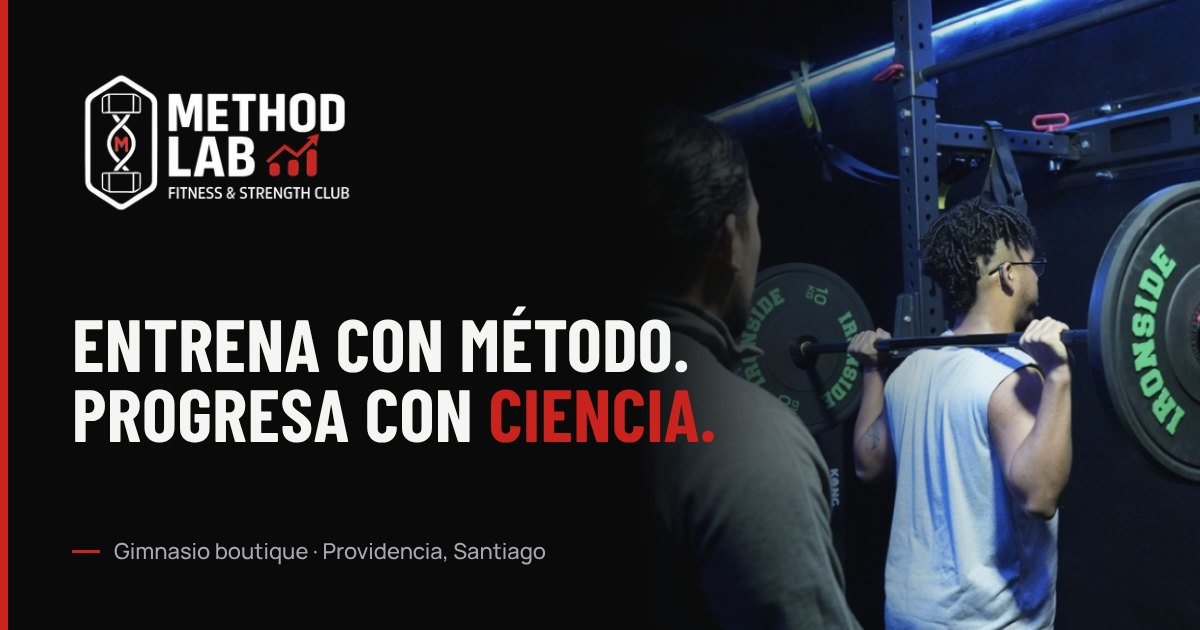
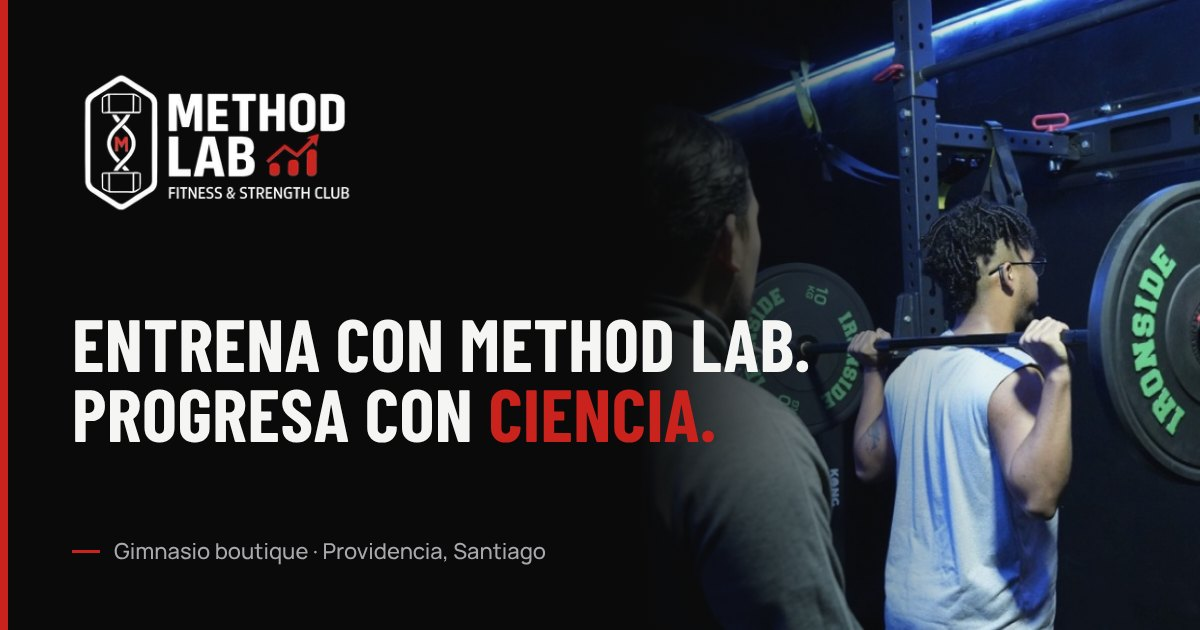
Add files via upload

Changed region(s): [[0.4625, 0.4825, 0.6783, 0.6032]]

diff --git a/index.html b/index.html
@@ -10,14 +10,14 @@
 <meta property="og:type" content="website">
 <meta property="og:locale" content="es_CL">
 <meta property="og:site_name" content="Method Lab">
-<meta property="og:title" content="Method Lab · Entrena con método. Progresa con ciencia.">
+<meta property="og:title" content="Entrena con Method Lab. Progresa con ciencia.">
 <meta property="og:description" content="Entrenamiento personalizado, mediciones profesionales y nutrición deportiva en Providencia, Santiago.">
 <meta property="og:url" content="https://methodlab.cl/">
-<meta property="og:image" content="https://methodlab-six.vercel.app/assets/og-image.jpg?v=2">
+<meta property="og:image" content="https://methodlab-six.vercel.app/assets/og-image.jpg?v=3">
 <meta property="og:image:width" content="1200">
 <meta property="og:image:height" content="630">
-<meta property="og:image:alt" content="Method Lab: Entrena con método. Progresa con ciencia.">
-<meta name="twitter:image" content="https://methodlab-six.vercel.app/assets/og-image.jpg?v=2">
+<meta property="og:image:alt" content="Entrena con Method Lab. Progresa con ciencia.">
+<meta name="twitter:image" content="https://methodlab-six.vercel.app/assets/og-image.jpg?v=3">
 <meta name="twitter:card" content="summary_large_image">
 <link rel="icon" type="image/png" sizes="32x32" href="assets/favicon-32.png">
 <link rel="apple-touch-icon" href="assets/apple-touch-icon.png">
@@ -120,7 +120,7 @@
   <div class="wrap hero__in">
     <p class="eyebrow hero__eye" data-anim>Gimnasio boutique · Providencia, Santiago</p>
     <h1 class="hero__t" id="hero-t">
-      <span class="line" data-anim>Entrena con método.</span>
+      <span class="line" data-anim>Entrena con Method Lab.</span>
       <span class="line" data-anim>Progresa con <em>ciencia.</em></span>
     </h1>
     <p class="hero__sub" data-anim>Especialistas en preparación física de deportistas de alto rendimiento. Entrenamiento personalizado, evaluaciones profesionales y seguimiento de tu progreso.</p>
